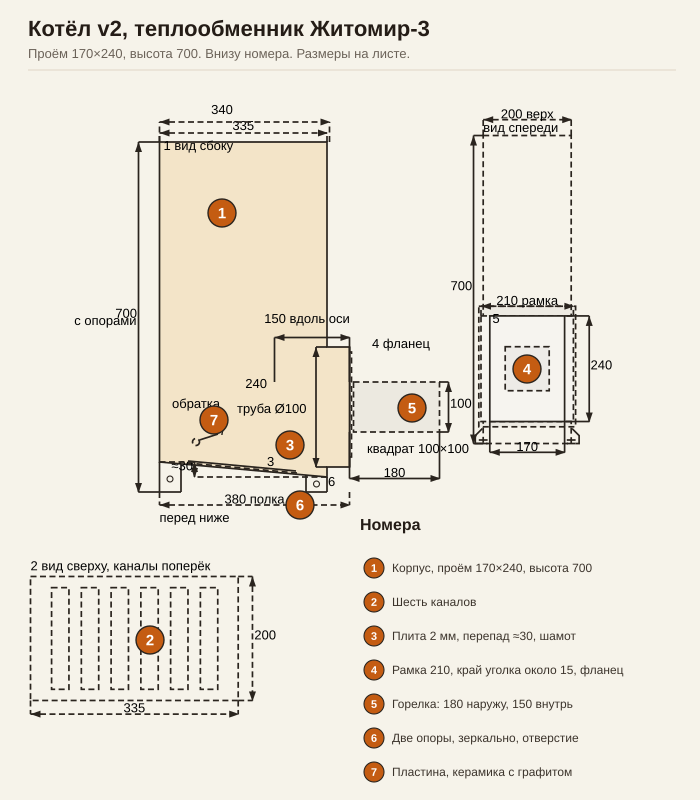
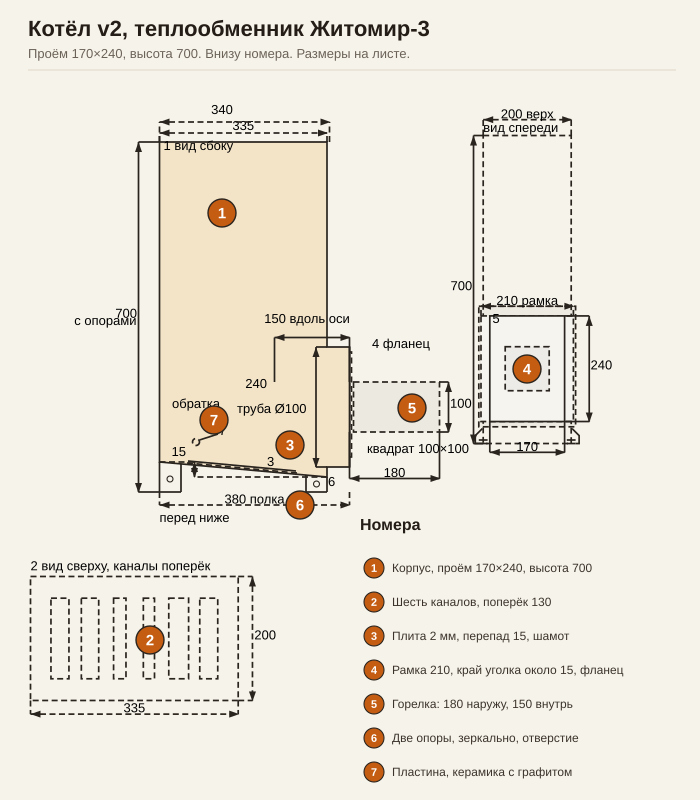
Котёл v2: кромки каналов и перепад плиты по рулетке.
Вдоль верха проёмы 33–62, 82–110, 134–154, 182–200, 223–255, 273–302 мм, поперёк 130 мм. От верха до плиты 223 и 238 мм, перепад 15 мм.

Changed region(s): [[0.06, 0.7188, 0.3, 0.875], [0.69, 0.75, 0.81, 0.8125], [0.24, 0.5625, 0.27, 0.5938]]

diff --git a/blueprints/burner/README.md b/blueprints/burner/README.md
@@ -105,9 +105,9 @@
 
 ![Котёл v2](./котел-v2-эскиз.svg)
 
-Проём в свету **170×240** мм. Общая высота **700** мм. Верх **335×200** мм, наружная рамка **210** мм, глубина **340** мм до внутренней кромки и **380** мм до наружной полки. Низ — плита **2 мм**: задний изгиб у входа холодной воды, перед ниже на **30** мм. Боковины приварены к рубашке. Рама — уголок **25 мм**, полки наружу. От края уголков до теплообменника около **15 мм**. Фланец горелки прижат к рамке.
+Проём в свету **170×240** мм. Общая высота **700** мм. Верх **335×200** мм, наружная рамка **210** мм, глубина **340** мм до внутренней кромки и **380** мм до наружной полки. Низ — плита **2 мм**: задний изгиб у входа холодной воды. От верха до плиты **223** мм на торце со штуцером и **238** мм на другом, перед ниже на **15** мм. Боковины приварены к рубашке. Рама — уголок **25 мм**, полки наружу. От края уголков до теплообменника около **15 мм**. Фланец горелки прижат к рамке.
 
-Сверху шесть прямоугольных каналов, длинной стороной поперёк, ряд вдоль верха.
+Сверху шесть прямоугольных каналов, длинной стороной поперёк. Вдоль верха от ближнего края кромки проёмов **33–62**, **82–110**, **134–154**, **182–200**, **223–255** и **273–302** мм. Поперёк проём **130** мм.
 
 Две опоры, вторая зеркальна первой. Сбоку верх листа переходит в теплообменник. Спереди и сзади у каждой ножки короткая подошва и срез. На пластине отверстие.
 

diff --git a/todo.md b/todo.md
@@ -22,7 +22,7 @@
 - [ ] **Котёл из кеги 30 л** (жаровой стакан Ø200, задник ~5 мм, козырёк у дымохода)
 - [ ] **[Котёл v2](blueprints/burner/README.md#котёл-v2)**, Житомир-3 КС-Г-015
   - [x] Купить донора (22.10.2026)
-  - [x] Крышка 2 мм: задний изгиб к низу воды у обратки, перед ниже на 30 мм. Боковины приварены. Проём 170×240 из уголка 25, низ и зад усилены
+  - [x] Крышка 2 мм: задний изгиб к низу воды у обратки, перед ниже на 15 мм. Боковины приварены. Проём 170×240 из уголка 25, низ и зад усилены
   - [x] Край уголков до теплообменника около 15 мм. Фланец к рамке прижат
   - [x] Передний проём в свету B = 170 мм, H = 240 мм. Общая высота 700 мм с опорами
   - [x] Две опоры, вторая зеркальна первой. Сбоку верх в теплообменник, спереди и сзади короткая подошва и срез. Отверстие без размера
